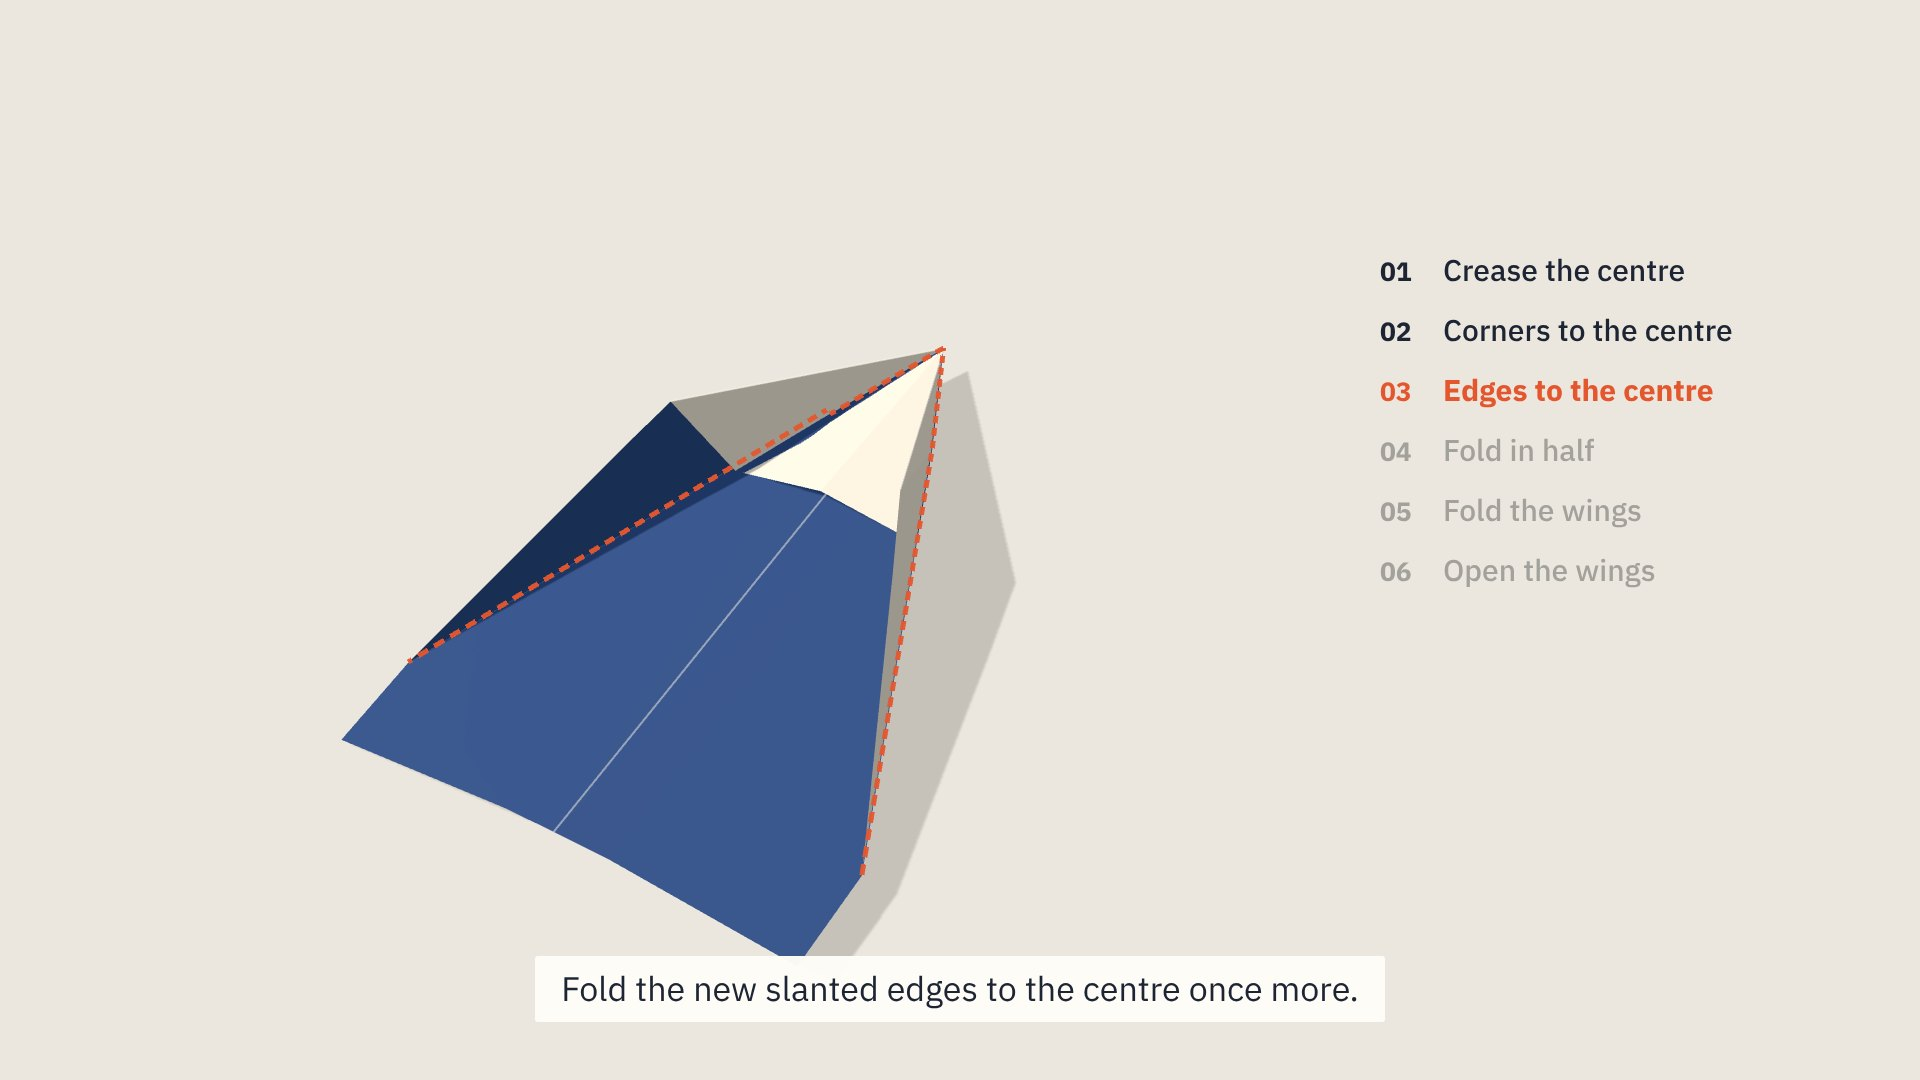
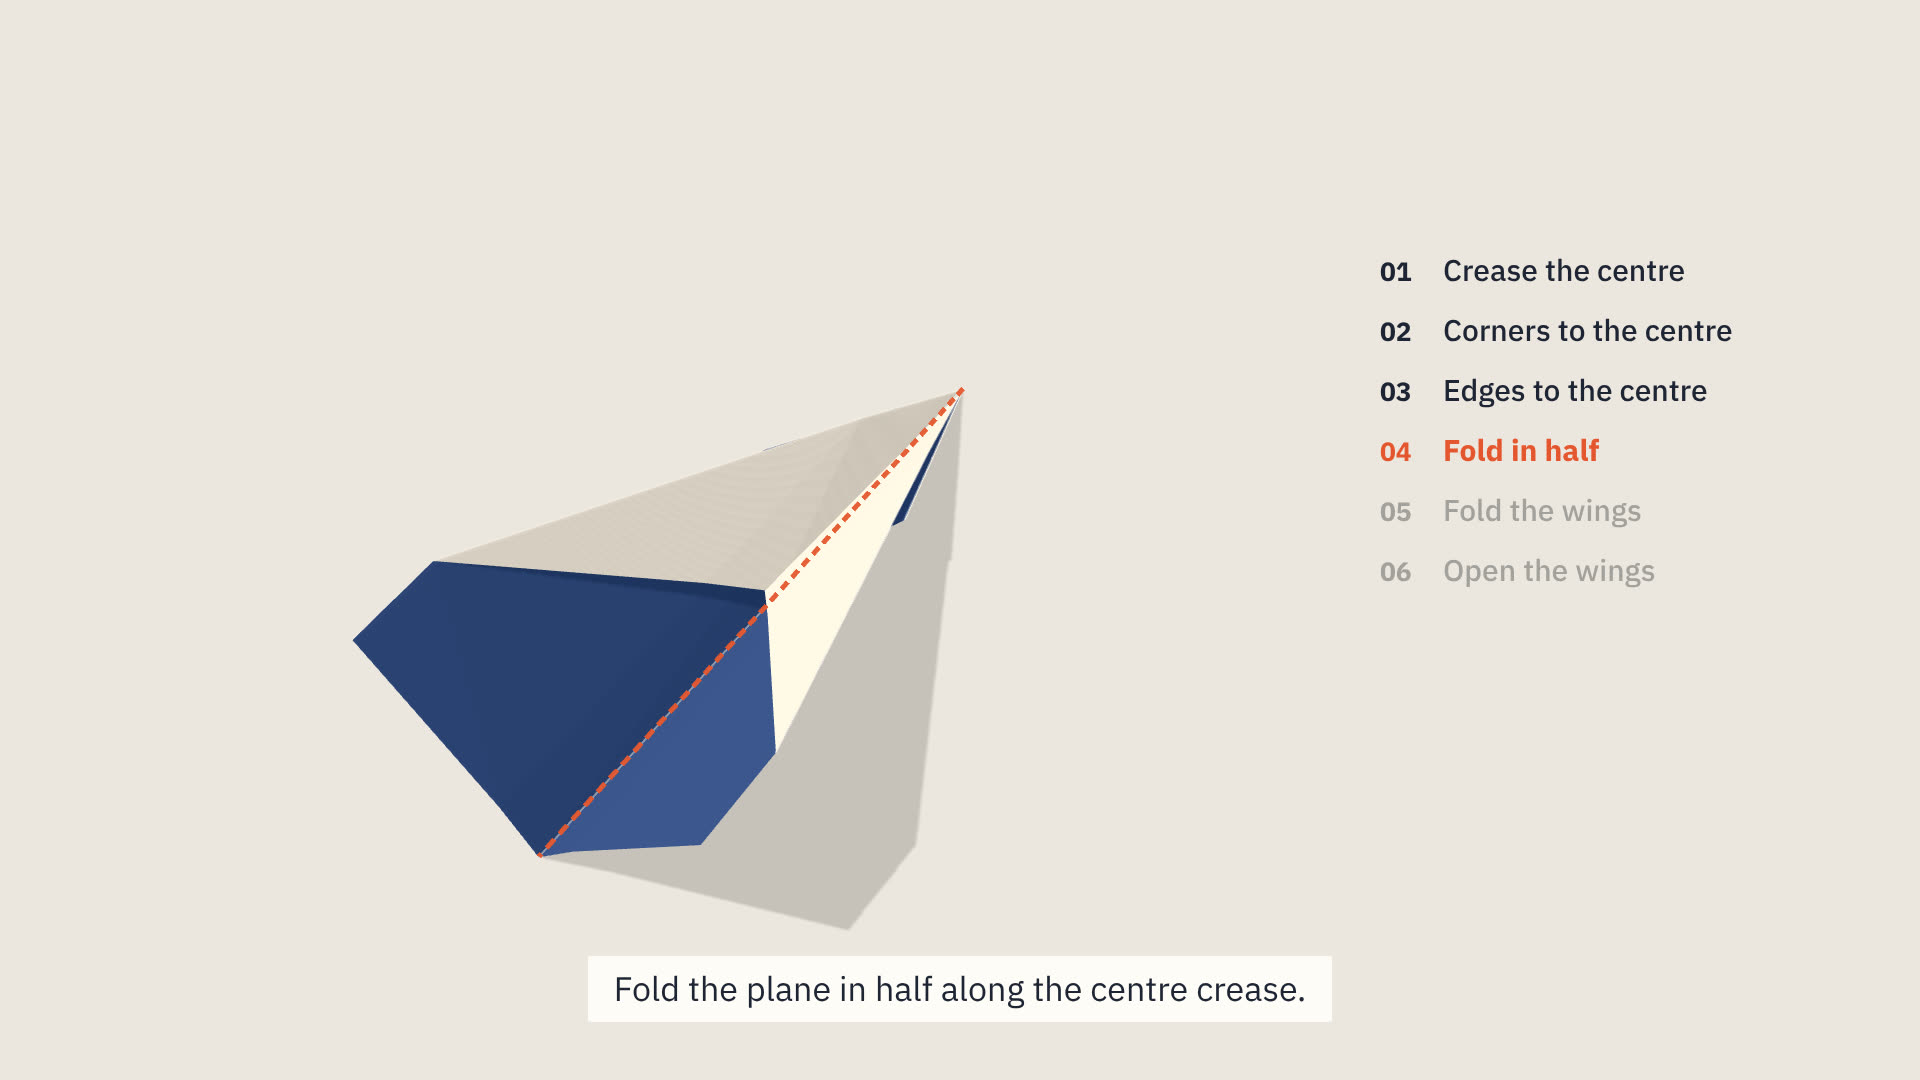
Origami: answer the review
- The reel keeps the beats MOTION.md sets: mark 0.9 s, fold 1.5 s
  (precrease 2.6 s), hold 1 s; it runs 30 s.
- The wing fold comes in less close, clear of the caption.
- Avoid matches Motion: a fold under 1.4 s, or a hold under 1 s.
- The mono face is dropped: nothing in the motion uses it.
- The poster is a frame of the new reel, the whole model in view.
- fit.for and the walk-round move promise only what the engine folds.

Claude-Session: https://claude.ai/code/session_015g7hWd54Zb18rwfBLq3MU9

Changed region(s): [[0.1562, 0.3056, 0.7188, 0.9472], [0.7188, 0.3361, 0.9062, 0.4278]]

diff --git a/motions/@camilaon/origami/react/reel.tsx b/motions/@camilaon/origami/react/reel.tsx
@@ -7,22 +7,23 @@ import {StepRail} from './parts/rail.tsx';
 import {CreasePattern} from './parts/pattern.tsx';
 import {paperPlane} from './parts/models.ts';
 
-export const reel = {seconds: 24, width: 1920, height: 1080};
+export const reel = {seconds: 30, width: 1920, height: 1080};
 
-// the beats: per step a mark, a fold and a short hold; a precrease folds and opens, so its fold beat is longer
-const MARK = 0.6, FOLD = 1.2, HOLD = 0.5, START = 0.6;
+// the beats, as MOTION.md times them: per step a mark, a fold and a hold; a precrease folds and opens, so its fold beat
+// is longer
+const MARK = 0.9, FOLD = 1.5, PRECREASE = 2.6, HOLD = 1.0, START = 0.5;
 type Beat = {step: number; mark: number; fold: number; end: number};
 const BEATS: Beat[] = [];
 {
   let t = START;
   paperPlane.steps.forEach((st, i) => {
-    const marked = !!st.folds?.length, fold = st.precrease ? 1.7 : FOLD;
+    const marked = !!st.folds?.length, fold = st.precrease ? PRECREASE : FOLD;
     const mark = t, foldAt = t + (marked ? MARK : 0), end = foldAt + fold + HOLD;
     BEATS.push({step: i + 1, mark, fold: foldAt, end});
     t = end;
   });
 }
-const FOLDED = BEATS[BEATS.length - 1].end; // about 16 s
+const FOLDED = BEATS[BEATS.length - 1].end; // about 21 s
 const WALK = FOLDED + 4.2, OPEN = reel.seconds;
 
 /** What happens when, for the motion's sound (sound.json): the crease scored, the fold, the paper landing, the model done */
@@ -62,7 +63,7 @@ export default function Reel() {
   // the camera: high over the sheet, lower and closer once the plane stands up, then a walk round
   const fourth = BEATS[3];
   const el = interpolate(t, [0, fourth.fold, fourth.end, FOLDED, WALK], [52, 50, 28, 26, 22], {...clamp, easing: ease});
-  const zoom = interpolate(t, [0, BEATS[1].fold, BEATS[1].end, fourth.fold, fourth.end, WALK, WALK + 0.8], [0.86, 0.86, 0.95, 0.95, 1.35, 1.35, 0.95], {...clamp, easing: ease});
+  const zoom = interpolate(t, [0, BEATS[1].fold, BEATS[1].end, fourth.fold, fourth.end, WALK, WALK + 0.8], [0.86, 0.86, 0.95, 0.95, 1.22, 1.22, 0.95], {...clamp, easing: ease});
   const az = interpolate(t, [0, FOLDED, WALK, OPEN], [24, 36, 36 + 230, 36 + 260], {...clamp, easing: ease});
   const railOut = interpolate(t, [FOLDED, FOLDED + 0.5], [1, 0], clamp);
   const shift = interpolate(t, [FOLDED, FOLDED + 0.8, WALK, WALK + 0.8], [190, 0, 0, 430], {...clamp, easing: ease});

diff --git a/motions/@camilaon/origami/MOTION.md b/motions/@camilaon/origami/MOTION.md
@@ -85,14 +85,14 @@ Optional, from `react/sound.json`: a dry scratch as a fold line is marked (`draw
 - **Mark, fold, rest.** The next fold drawn on, made, held. *Fits content like:* any procedure in steps; assembling a flat-packed thing; a recipe's order of work.
 - **Through the layers.** One line folds a stack at once, every layer finding its own valley or mountain. *Fits content like:* why order matters; how one action propagates through layers; a stack of paper folded into a booklet.
 - **Turn it over.** A half turn shows the other side, and the other colour. *Fits content like:* the other side of an argument; what is underneath; a reveal.
-- **Walk round the model.** The finished model turned slowly, low over the table, its shadow under it. *Fits content like:* the result; a satellite's solar array deployed; a structure from every side.
+- **Walk round the model.** The finished model turned slowly, low over the table, its shadow under it. *Fits content like:* the result; a structure from every side.
 - **Open it back out.** `CreasePattern` beside the folded model: everything the model is, on one flat sheet. *Fits content like:* compression; how much a small thing holds; a plan and its result.
 
 ## Avoid: pitfalls
 
 - Folding without marking first: the viewer cannot follow. Fix: mark every step with creases, before `at` moves.
 - Two accent things at once (a red title, a second marked step). Fix: the accent is the fold in hand and its step only.
-- A fold too fast to read (under 1.2 s) or no hold. Fix: mark, fold, hold, each its full beat.
+- A fold too fast to read (under 1.4 s) or a hold under 1 s. Fix: mark, fold, hold, each its full beat.
 - Text on the paper, or arrows floating in 3D. Fix: words live in the title, the step list and the caption.
 - Moving the camera while a fold is marked or made fast. Fix: keep camera moves slow and between steps.
 - A model written with lines in the unfolded sheet's coordinates after the first fold. Fix: `line` and `moving` are where the paper lies now; use `whereIs` and check the chords in Node.

diff --git a/motions/@camilaon/origami/CREDITS.md b/motions/@camilaon/origami/CREDITS.md
@@ -14,7 +14,7 @@ Origami is an original motion. Its folding engine (`react/parts/fold.ts`) is wri
 
 ## Fonts
 
-- IBM Plex Sans, IBM Plex Mono: SIL Open Font License 1.1
+- IBM Plex Sans: SIL Open Font License 1.1
 - Noto Sans SC: SIL Open Font License 1.1
 
 ## Code
